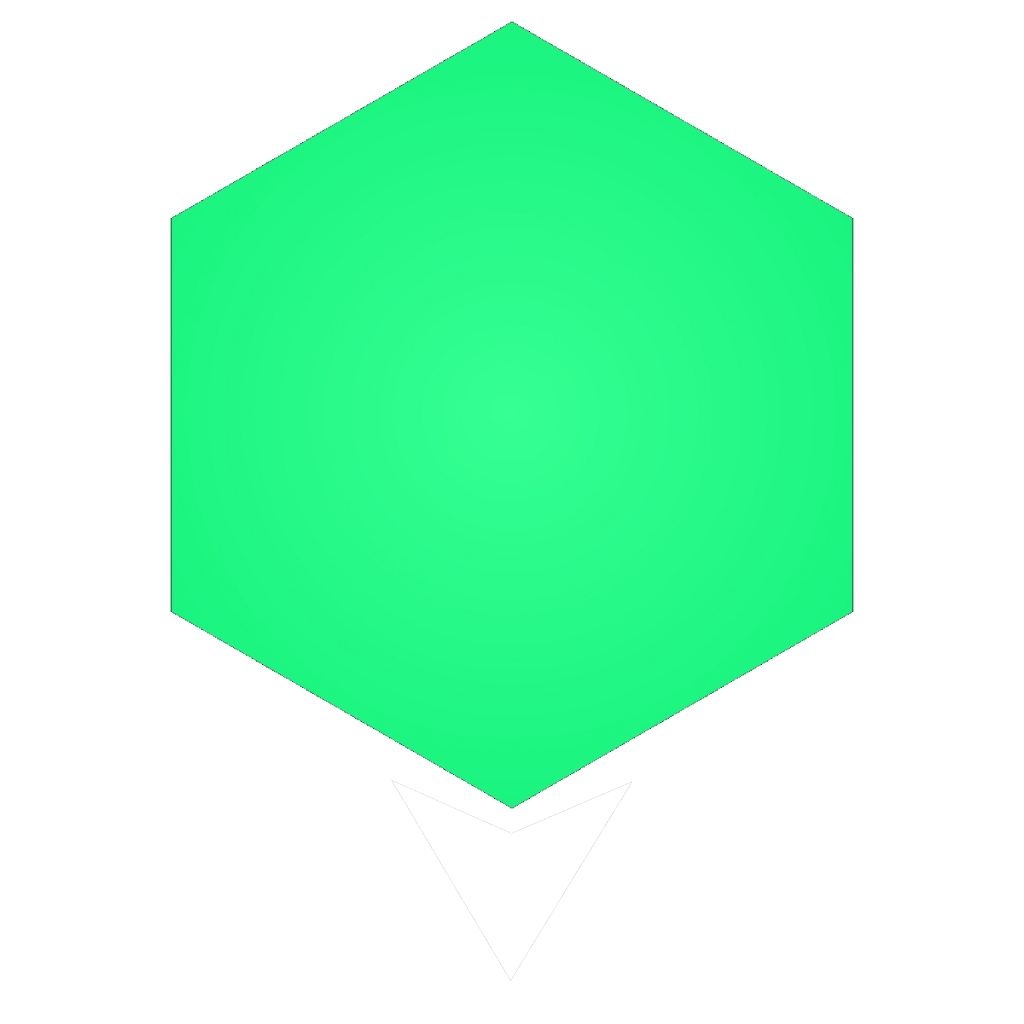
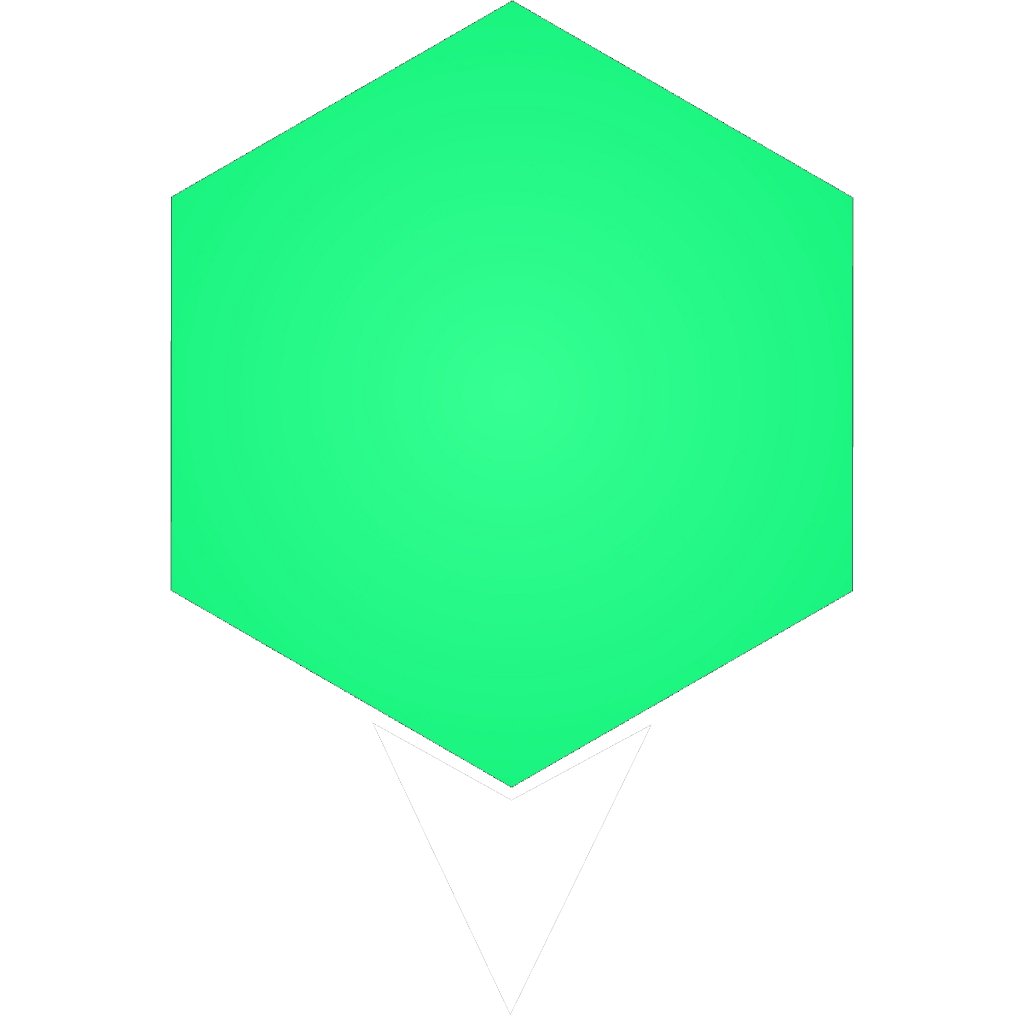
pinned new image

Changed region(s): [[0.1562, 0.5625, 0.8438, 0.7812], [0.1562, 0.0, 0.8438, 0.2188]]

diff --git a/commands/Fortnite/NPCLocations.js b/commands/Fortnite/NPCLocations.js
@@ -46,8 +46,8 @@ module.exports = {
                     //add the pin to locations
                     for(let i = 0; i < res.data.npc.length; i++){
 
-                        var x = res.data.npc[i].spawnLocations.locations[0].x - 90
-                        var y = res.data.npc[i].spawnLocations.locations[0].y - 175
+                        var x = res.data.npc[i].spawnLocations.locations[0].x - (160 / 2)
+                        var y = res.data.npc[i].spawnLocations.locations[0].y - (160 / 2)
 
                         //if the location is in range
                         if(y > 20){
@@ -62,7 +62,7 @@ module.exports = {
 
                             //add the pin based on the npc location
                             const npc = await Canvas.loadImage('./assets/NPC/flipedPIN.png')
-                            ctx.drawImage(npc, x, y + 5, 160, 160)
+                            ctx.drawImage(npc, x, y, 160, 160)
 
                         }
                     }
